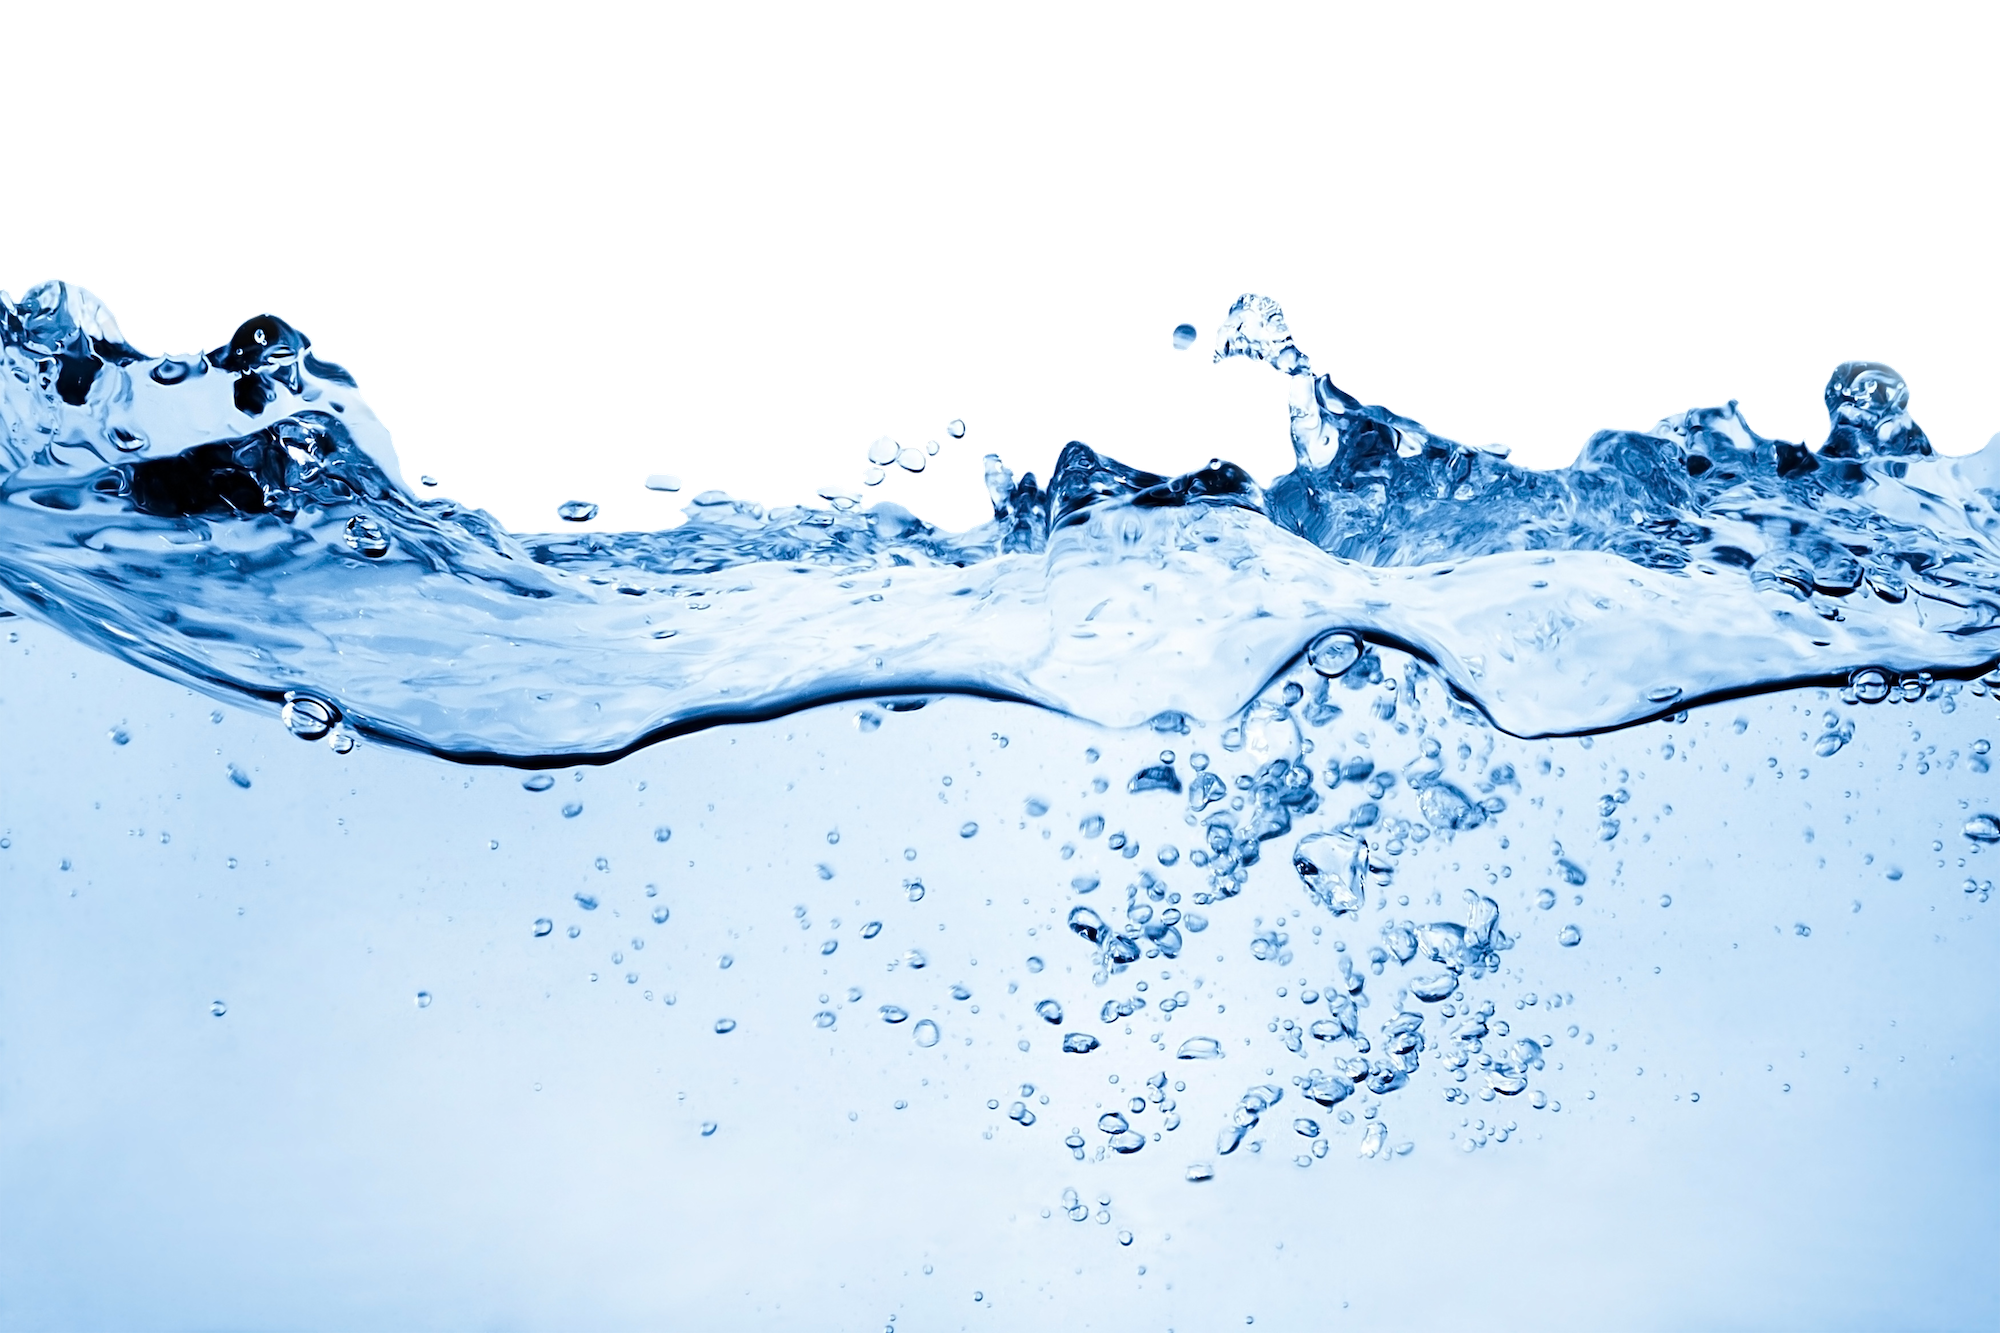
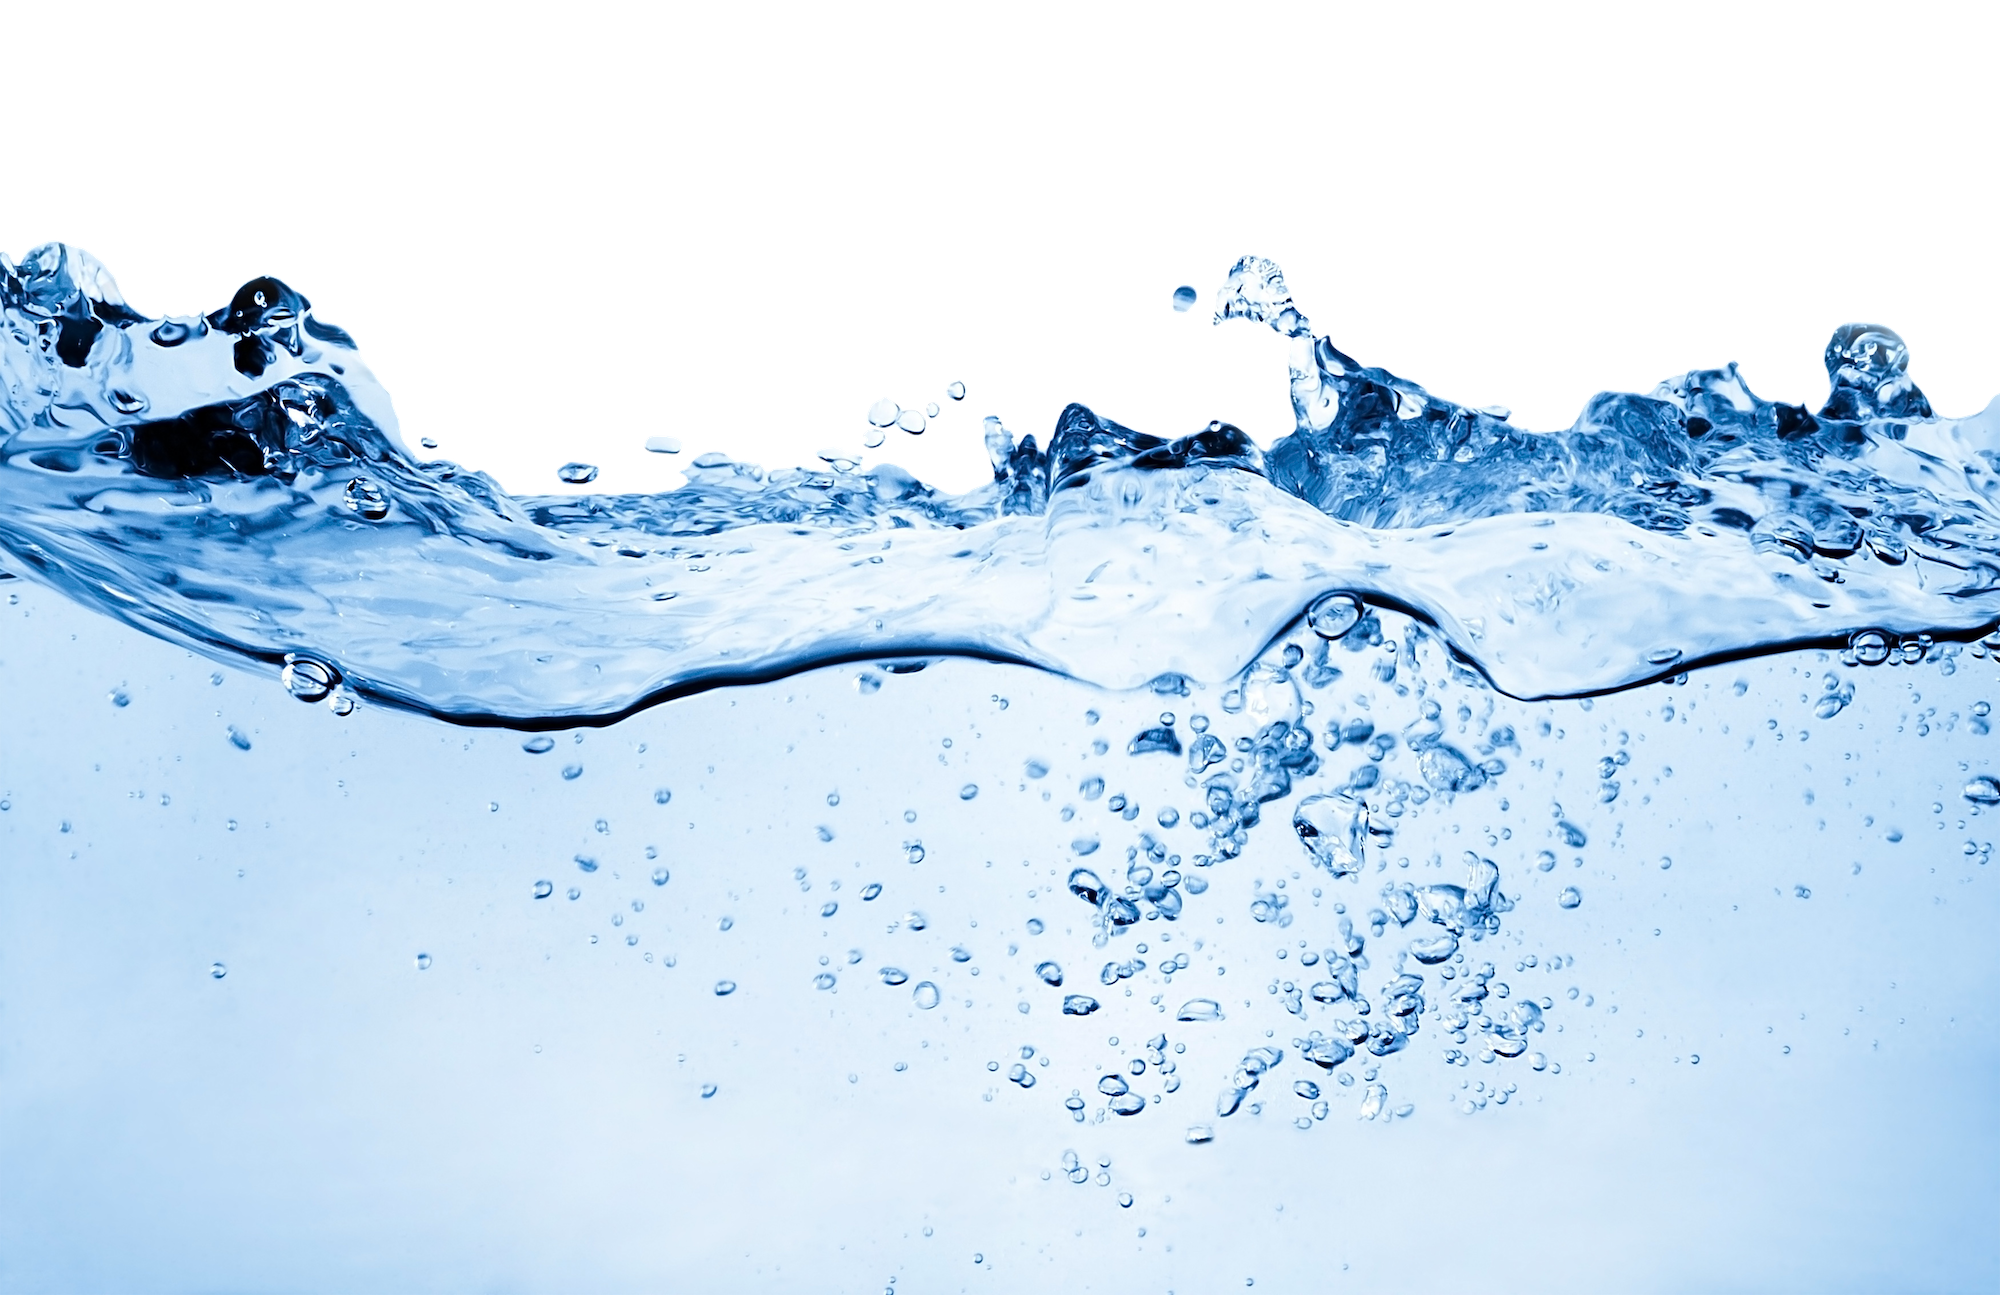
adobe water img, sue's list

diff --git a/app/assets/stylesheets/static_pages.scss b/app/assets/stylesheets/static_pages.scss
@@ -314,7 +314,8 @@ img.icon { width:10%; @include center-block();}
 
 	.banner-top { @include sec-default();
 		background-color: $white;
-		@include sec-bgimage(); background-image: url(image_path('water-temp.png')); background-position: bottom center;
+		@include sec-bgimage(); background-image: url(image_path('water-bg.png'));
+		// background-position: bottom right;
 		.inner {width: 92%; @include center-block();}
 		.left-block {@include sec-default(); margin-bottom: 15px; text-align: center;}
 
@@ -343,11 +344,12 @@ img.icon { width:10%; @include center-block();}
 			}
 		}
 	}
-	.layout-mainb{@include sec-default(); padding:20px 0 75px; background-color: #d7ecfa;
+	.layout-mainb{@include sec-default(); padding:50px 0 0;
+		// background-color: #d7ecfa;
 
-		@include sec-bgimage(); background-image: url(image_path('water-temp.png')); background-position: center center;
+		// @include sec-bgimage(); background-image: url(image_path('water-temp.png')); background-position: center center;
 	}
-	.inner-sub {@include center-block(); width: 90%; text-align: center; margin-top: -50px;
+	.inner-sub {@include center-block(); width: 90%; text-align: center;
 		background-color: $white;
 		.qcon {width: 12%; @include center-block();}
 		.top-bar {@include sec-default(); text-align: center; margin-bottom: 25px;}
